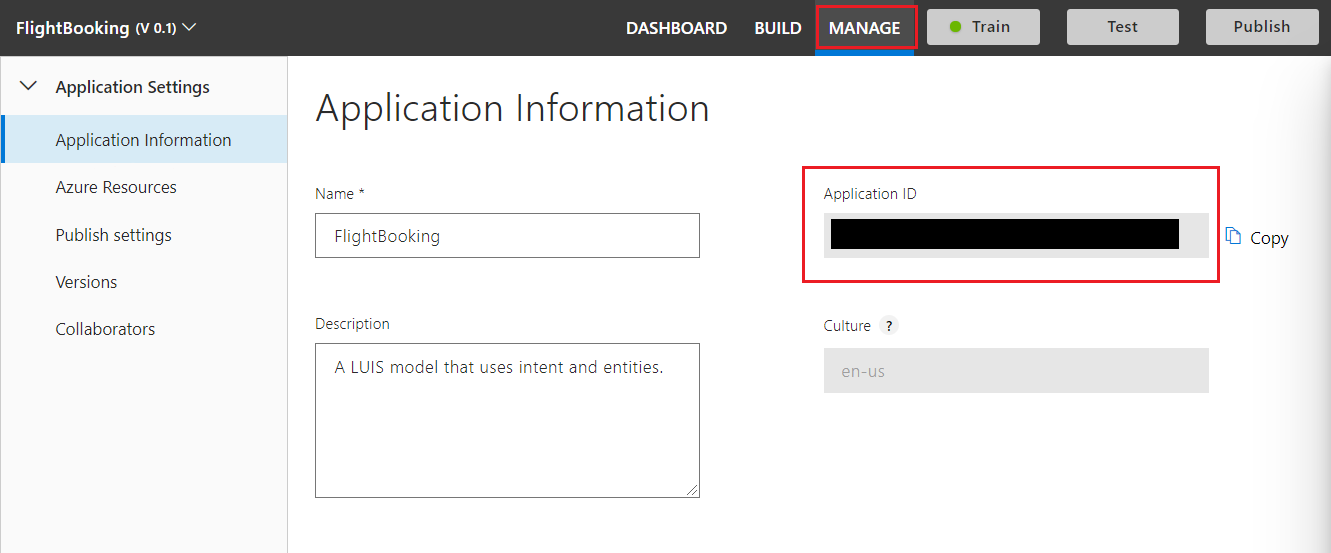
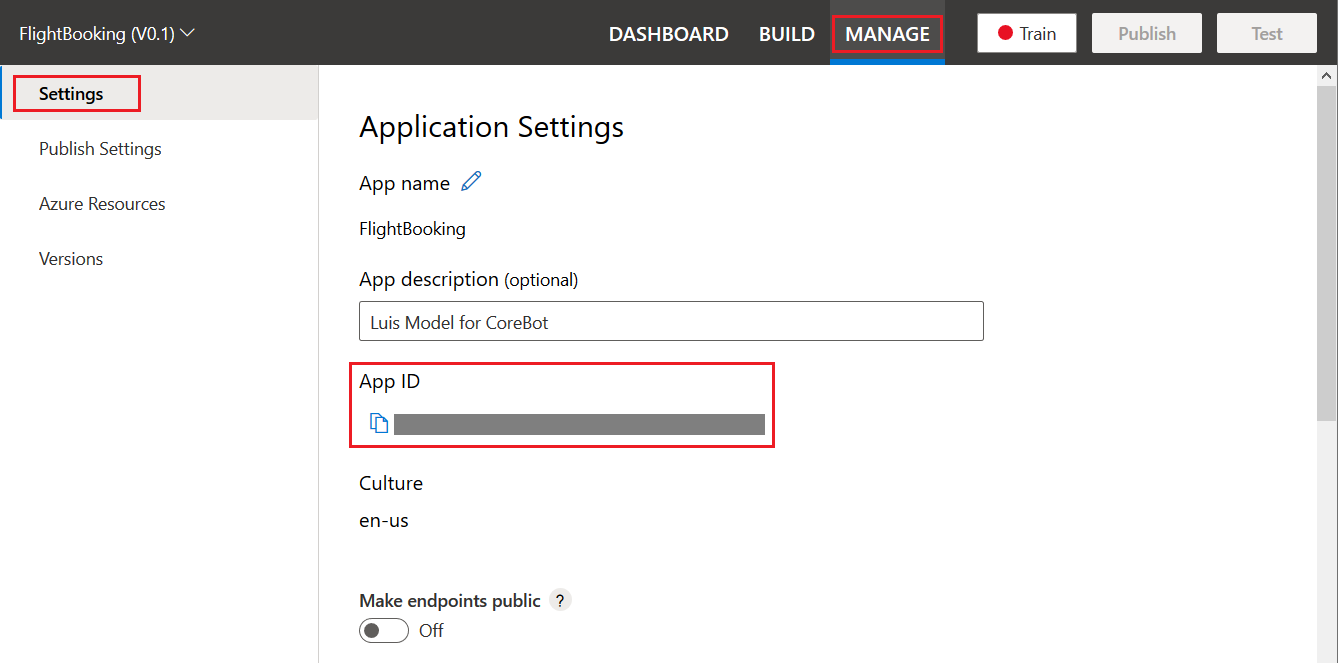
Finish updating description and screenshots.

diff --git a/articles/v4sdk/bot-builder-howto-v4-luis.md b/articles/v4sdk/bot-builder-howto-v4-luis.md
@@ -29,6 +29,8 @@ This topic walks you through adding LUIS to a flight booking application to reco
 
 This core bot sample shows an example of an airport flight booking application. It uses a LUIS service to recognize the user input and return the top recognized LUIS intent.
 
+The language model contains three intents: `Book Flight`, `Cancel`, and `None`. LUIS will use these intents to understand what the user meant when they send a message to the bot. The language model also defines entities that LUIS can extract from the user's input, such as the origin or destination airport.
+
 # [C#](#tab/csharp)
 
 After each processing of user input, `DialogBot` saves the current state of both `UserState` and `ConversationState`. Once all the required information has been gathered the coding sample creates a demo flight booking reservation. In this article we'll be covering the LUIS aspects of this sample. However, the general flow of the sample is shown below:
@@ -83,12 +85,12 @@ This article covers how to add LUIS to a bot. For information about using dialog
 ## Create a LUIS app in the LUIS portal
 
 1. Sign in to the [LUIS portal](https://www.luis.ai).
-    1. If you don't already have an account, create one.
-    1. If you don't already have an authoring resource, create one.
-    For more information, see the LUIS documentation on how to [sign in to the LUIS portal](/azure/cognitive-services/luis/luis-how-to-start-new-app#sign-in-to-luis-portal).
+    - If you don't already have an account, create one.
+    - If you don't already have an authoring resource, create one.
+    - For more information, see the LUIS documentation on how to [sign in to the LUIS portal](/azure/cognitive-services/luis/luis-how-to-start-new-app#sign-in-to-luis-portal).
 1. On the **My Apps** page, click **New app for conversation** and select **Import as JSON**.
 1. In the **Import new app** dialog:
-    1. Choose the **FlightBooking.json** file in the **CognitiveModels** folder of the sample. (This file contains three intents: 'Book Flight', 'Cancel', and 'None'. LUIS will use these intents to understand what the user meant when they send a message to the bot.)
+    1. Choose the **FlightBooking.json** file in the **CognitiveModels** folder of the sample.
     1. Enter `FlightBooking` as the optional name of the app, and click **Done**.
 1. Train and publish your app.
     For more information, see the LUIS documentation on how to [train](/azure/cognitive-services/LUIS/luis-how-to-train) and [publish](/azure/cognitive-services/LUIS/publishapp) an app to the production environment.
@@ -96,8 +98,6 @@ This article covers how to add LUIS to a bot. For information about using dialog
 ### Why use entities
 
 LUIS entities allow your bot to intelligently understand certain things or events that are different than the standard intents. This enables you to gather extra information from the user, which lets your bot respond more intelligently or possibly skip certain questions where it asks the user for that information. Along with definitions for the three LUIS intents 'Book Flight', 'Cancel', and 'None' the FlightBooking.json file also contains a set of entities such as 'From.Airport' and 'To.Airport'. These entities allow LUIS to detect and return additional information contained within the user's original input when they request a new travel booking.
-
-For information on how entity information appears in a LUIS result, see [Extract data from utterance text with intents and entities](https://docs.microsoft.com/azure/cognitive-services/luis/luis-concept-data-extraction).
 
 ## Obtain values to connect to your LUIS app
 
@@ -109,11 +109,12 @@ The settings file (`appsettings.json`, `.env` or `config.py`) acts as the place 
 
 1. Select your published LUIS app from [luis.ai](https://www.luis.ai).
 1. With your published LUIS app open, select the **MANAGE** tab.
-1. Select the **Application Information** tab on the left side. Record the value shown for _Application ID_ as <YOUR_APP_ID>.
+1. Select the **Settings** tab on the left side.
+    Record the value shown for _Application ID_ as \<YOUR_APP_ID>.
     ![Manage LUIS app - Application Information](./media/how-to-luis/manage-luis-app-app-info.png)
-1. Select the **Azure Resources** tab on the left side. Record the value shown for:_Region_ as <YOUR_REGION> and _Primary key_ as <YOUR_AUTHORING_KEY>.
+1. Select the **Azure Resources** tab on the left side and select the **Authoring Resource** group.
+    Record the value shown for _Location_ as \<YOUR_REGION> and _Primary Key_ as \<YOUR_AUTHORING_KEY>.
     ![Manage LUIS app - Application Information](./media/how-to-luis/manage-luis-app-azure-resources.png)
-
 
 ### Update the settings file
 
@@ -208,6 +209,14 @@ If the top intent returned from LUIS resolves to "Book flight" your bot will ask
 ![LUIS booking result](./media/how-to-luis/luis-travel-result.png)
 
 At this point the code bot logic will reset and you can continue to create additional bookings.
+
+## Additional information
+
+For more about LUIS, see the LUIS documentation:
+
+- [What is Language Understanding (LUIS)?](azure/cognitive-services/luis/what-is-luis)
+- [Create a new LUIS app in the LUIS portal](azure/cognitive-services/luis/luis-how-to-start-new-app)
+- [Design with intent and entity models](azure/cognitive-services/luis/luis-concept-model)
 
 ## Next steps
 
